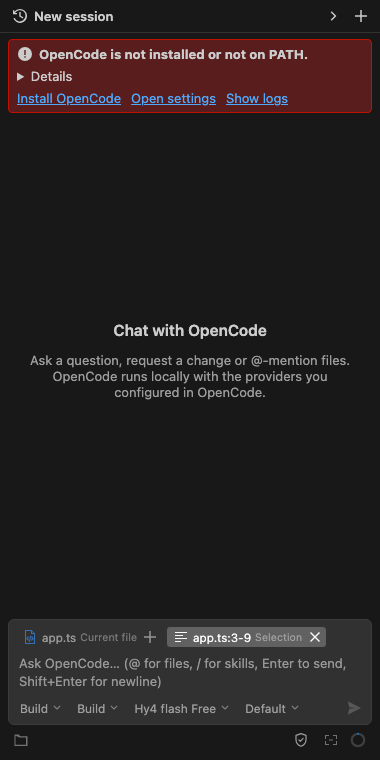
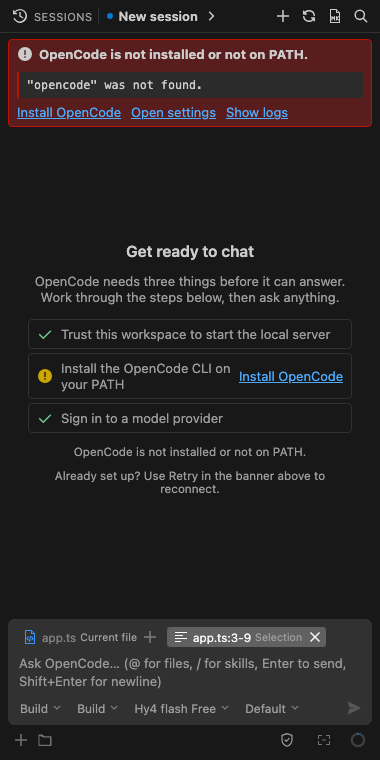
docs: regenerate curated screenshots from the UI suite
Ran npm run test:ui (135 passed, 1 skipped) and refreshed all six curated PNGs from the numbered test output. Added the error and @mention captures to FEATURES.md so no curated asset is unused.

diff --git a/docs/FEATURES.md b/docs/FEATURES.md
@@ -34,12 +34,17 @@ settings, see [REFERENCE.md](REFERENCE.md).
   and an "N of M" counter. The session list has its own title filter. Clear **error states** with the
   action buttons (OpenCode missing, no provider, connection lost, interrupted response…).
 
+![An actionable error banner with setup actions](images/error-dark.png)
+
 ## Context and files
 
 - **Editor context**: the active file and selection are attached automatically as removable chips,
   with your active file icon theme's icons (including dark/light/high-contrast and glyph fonts).
 - **`@` mentions** with fuzzy workspace search: picking a file attaches it as a chip and removes the
   `@query` from the input. **Add Selection to Chat** / **Add File to Chat** work the same way.
+
+  ![The @ file picker with fuzzy results](images/mention-dark.png)
+
 - **Context sources on demand**: `@problems`, `@git`, `@terminal`, `@openEditors` or `@symbol`, or
   the **Add context** button next to the composer's folder button. Their content is sent inline, so
   it works even when the server's filesystem is not yours.
